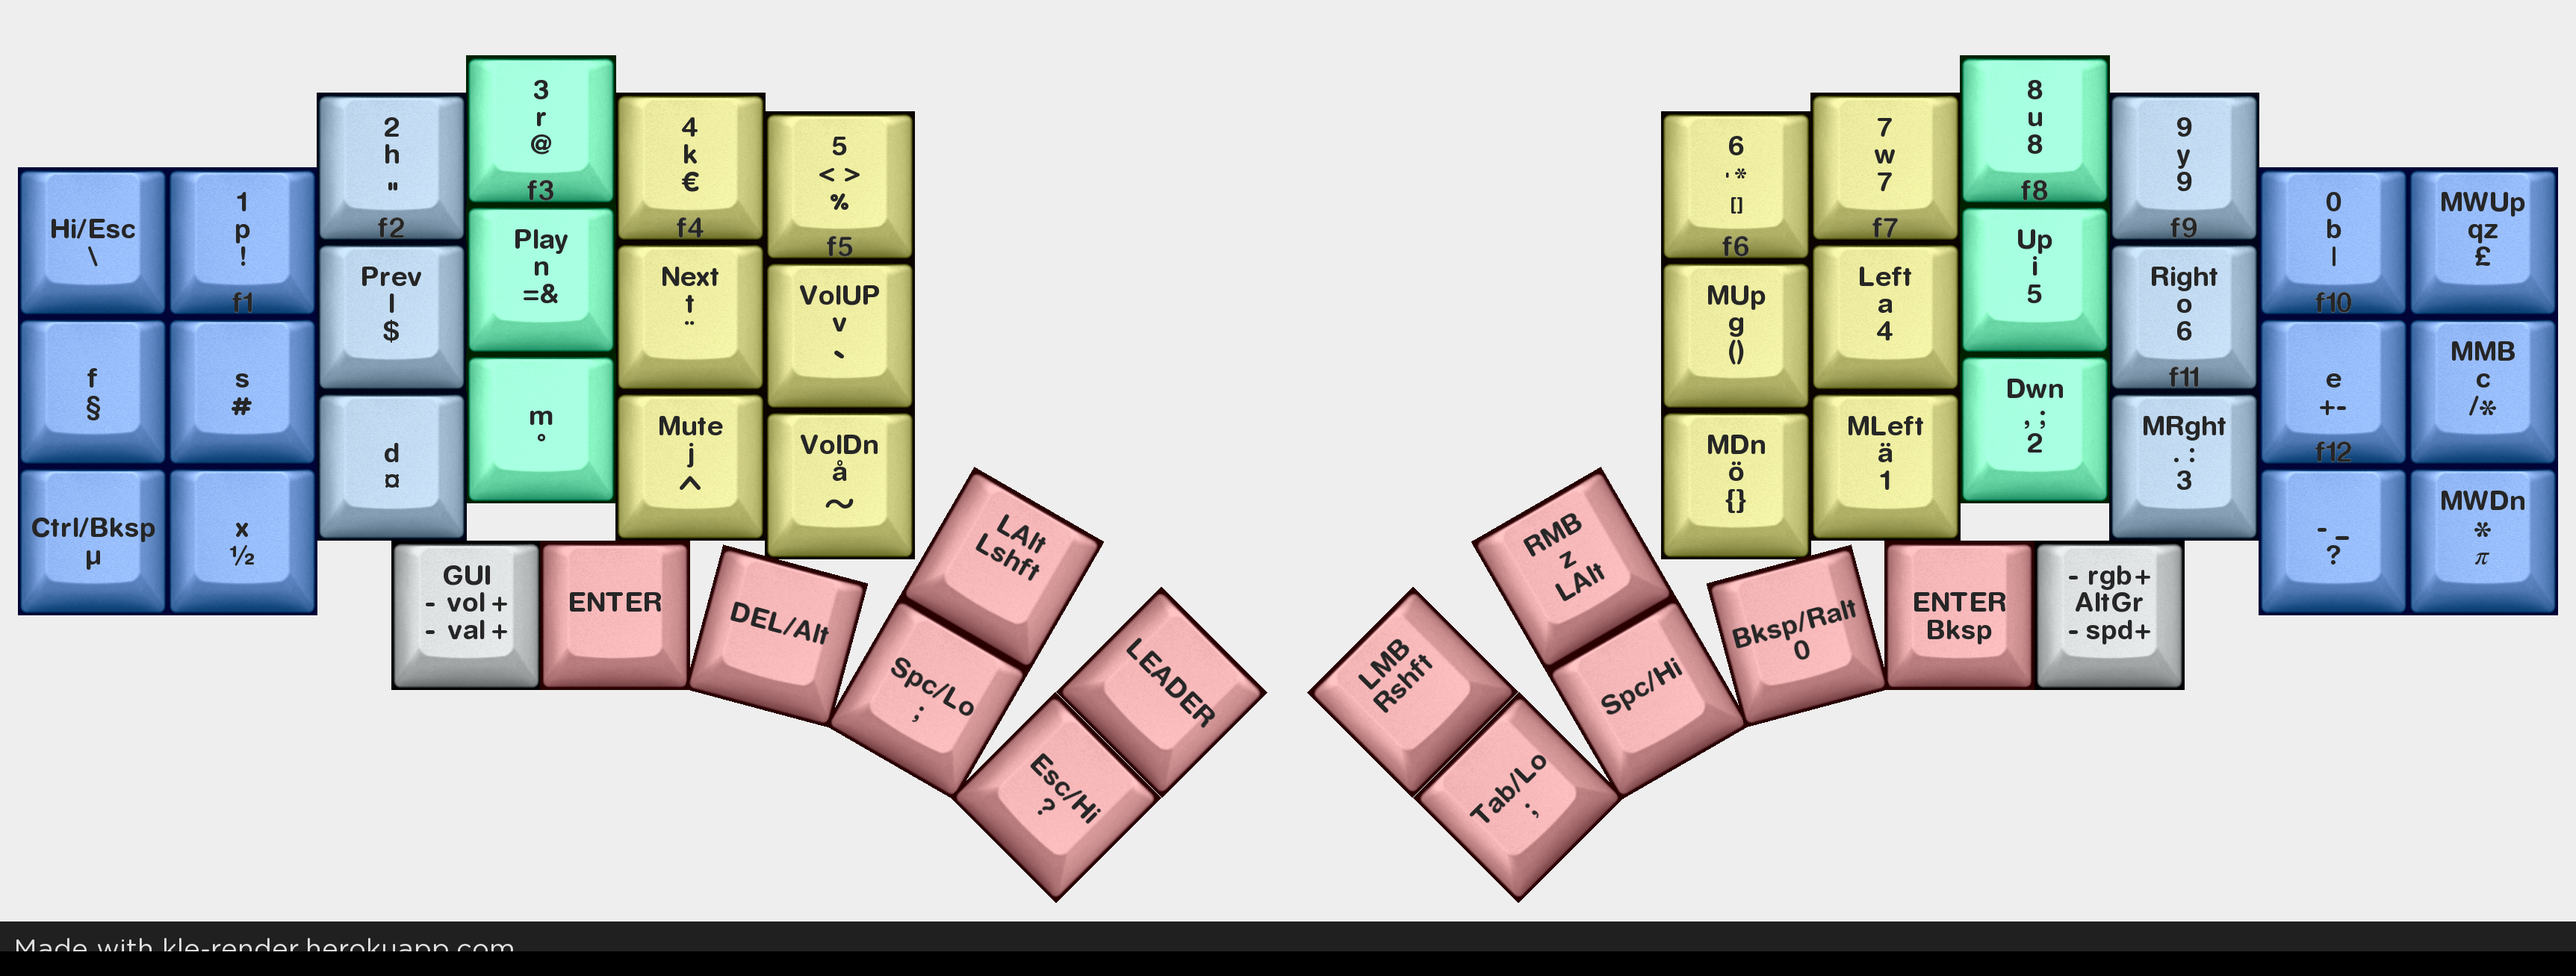
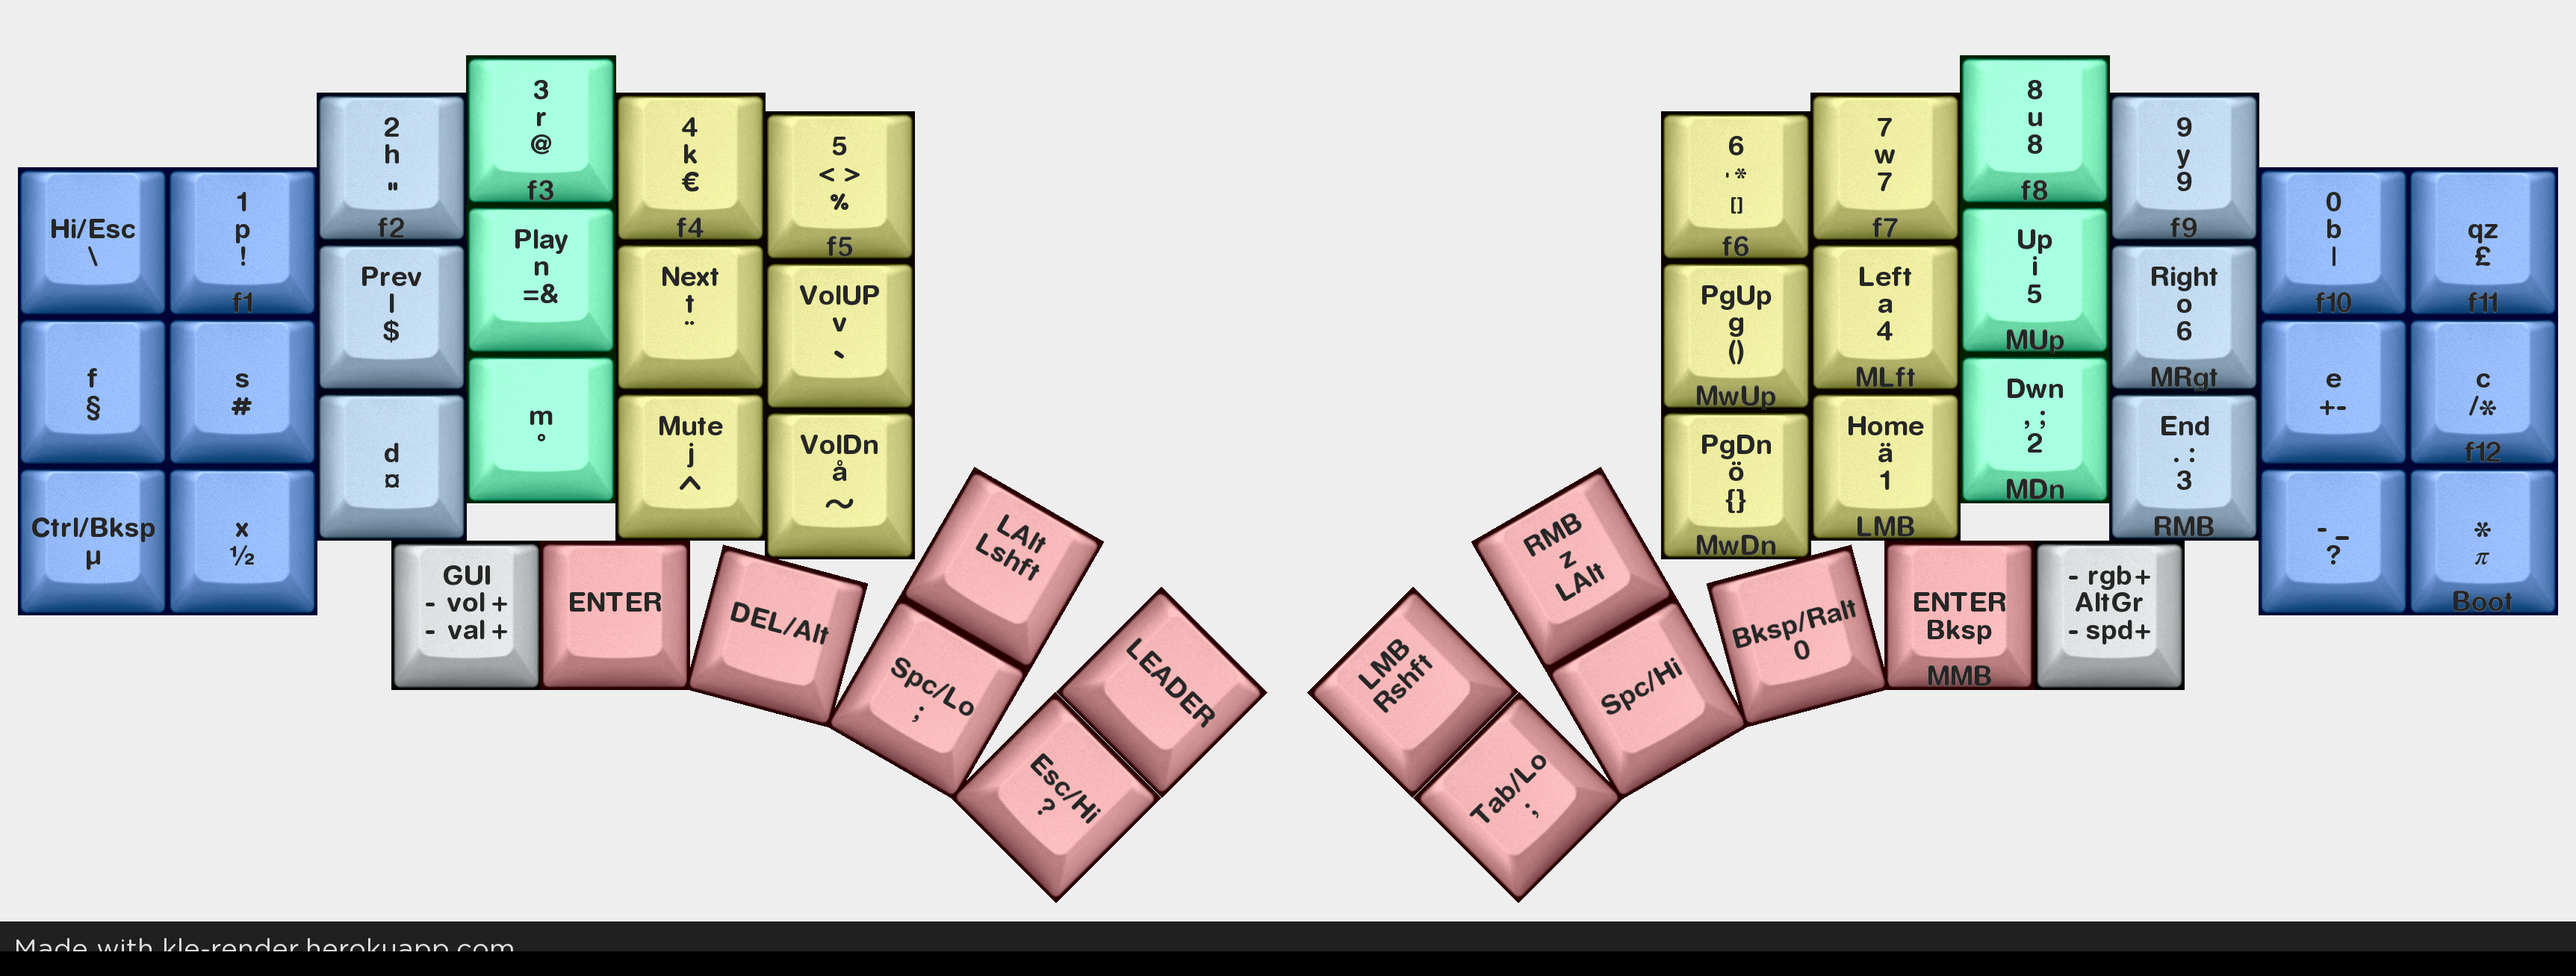
* Add PgUp, PgDn, Home and End to Raise layer. * Update kle.json to reflect latest state * Update simple render

diff --git a/keyboards/splitkb/kyria/keymaps/jesterKing/keymap.c b/keyboards/splitkb/kyria/keymaps/jesterKing/keymap.c
@@ -176,9 +176,9 @@ const uint16_t PROGMEM keymaps[][MATRIX_ROWS][MATRIX_COLS] = {
  * ,-------------------------------------------.                              ,-------------------------------------------.
  * |        |   1  |  2   |  3   |  4   |  5   |                              |  6   |  7   |  8   |  9   |  0   |        |
  * |--------+------+------+------+------+------|                              |------+------+------+------+------+--------|
- * |        |      | Prev | Play | Next | VolUp|                              |      | Left | Up   | Right|      |        |
+ * |        |      | Prev | Play | Next | VolUp|                              | PgUp | Left | Up   | Right|      |        |
  * |--------+------+------+------+------+------+-------------.  ,-------------+------+------+------+------+------+--------|
- * |        |      |      |      | Mute | VolDn| LAlt |      |  |      |      |      |      | Down |      |      |        |
+ * |        |      |      |      | Mute | VolDn| LAlt |      |  |      |      | PgDn | Home | Down | End  |      |        |
  * `----------------------+------+------+------+------+------|  |------+------+------+------+------+----------------------'
  *                        |      |      |      |      |      |  |      |      |      |      |      |
  *                        |      |      |      |      |      |  |      |      |      |      |      |
@@ -186,8 +186,8 @@ const uint16_t PROGMEM keymaps[][MATRIX_ROWS][MATRIX_COLS] = {
  */
     [_RAISE] = LAYOUT(
       _______, KC_1, 	  KC_2,    KC_3,    KC_4,    KC_5,                                      KC_6,    KC_7,    KC_8,    KC_9,    KC_0,    _______,
-      _______, _______, KC_MPRV, KC_MPLY, KC_MNXT, KC_VOLU,                                     _______, KC_LEFT, KC_UP,   KC_RGHT, _______, _______,
-      _______, _______, _______, _______, KC_MUTE, KC_VOLD, KC_LALT, _______, _______, _______, _______, _______, KC_DOWN, _______, _______, _______,
+      _______, _______, KC_MPRV, KC_MPLY, KC_MNXT, KC_VOLU,                                     KC_PGUP, KC_LEFT, KC_UP,   KC_RGHT, _______, _______,
+      _______, _______, _______, _______, KC_MUTE, KC_VOLD, KC_LALT, _______, _______, _______, KC_PGDN, KC_HOME, KC_DOWN, KC_END,  _______, _______,
                                  _______, _______, _______, _______, _______, _______, _______, _______, _______, _______
     ),
 /*
